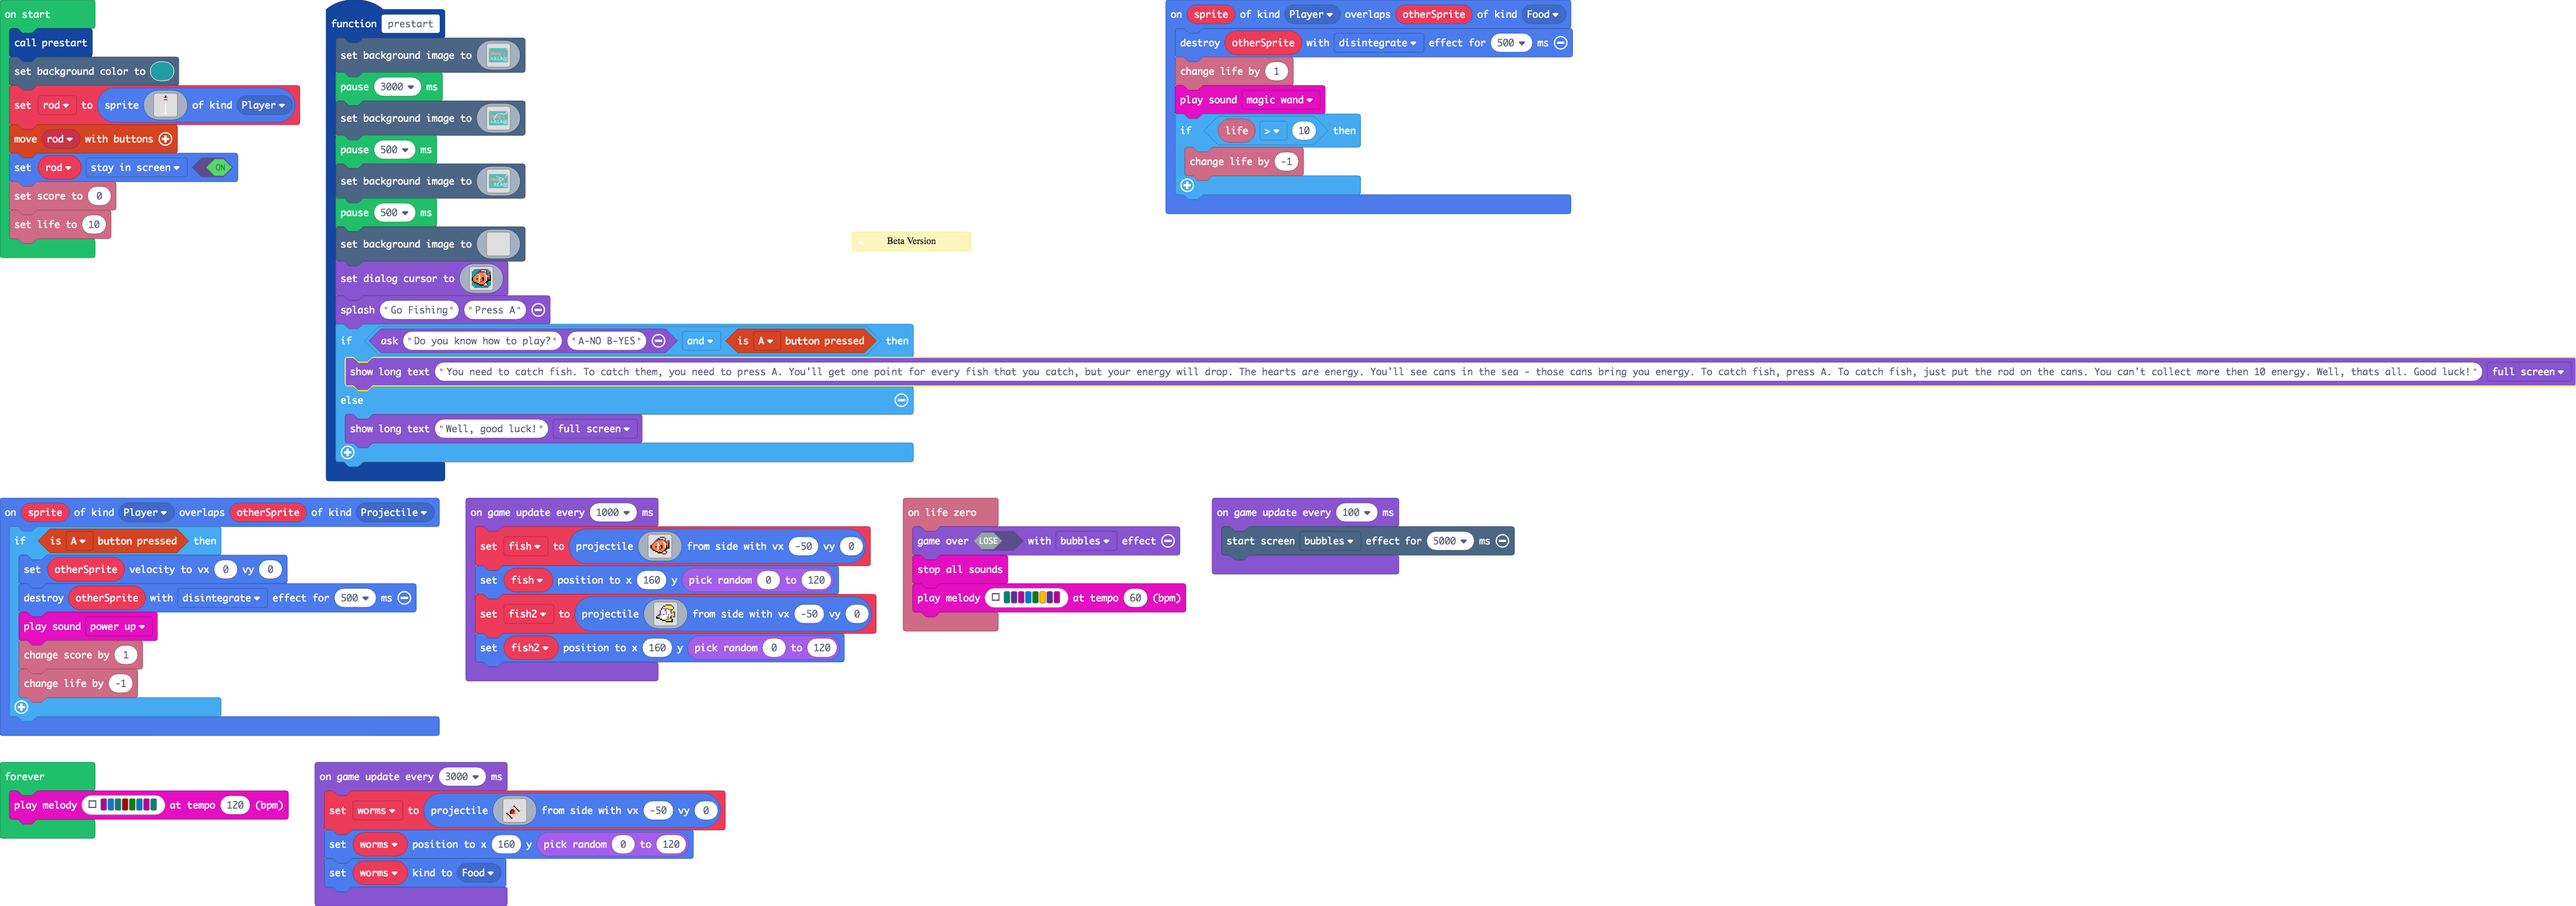
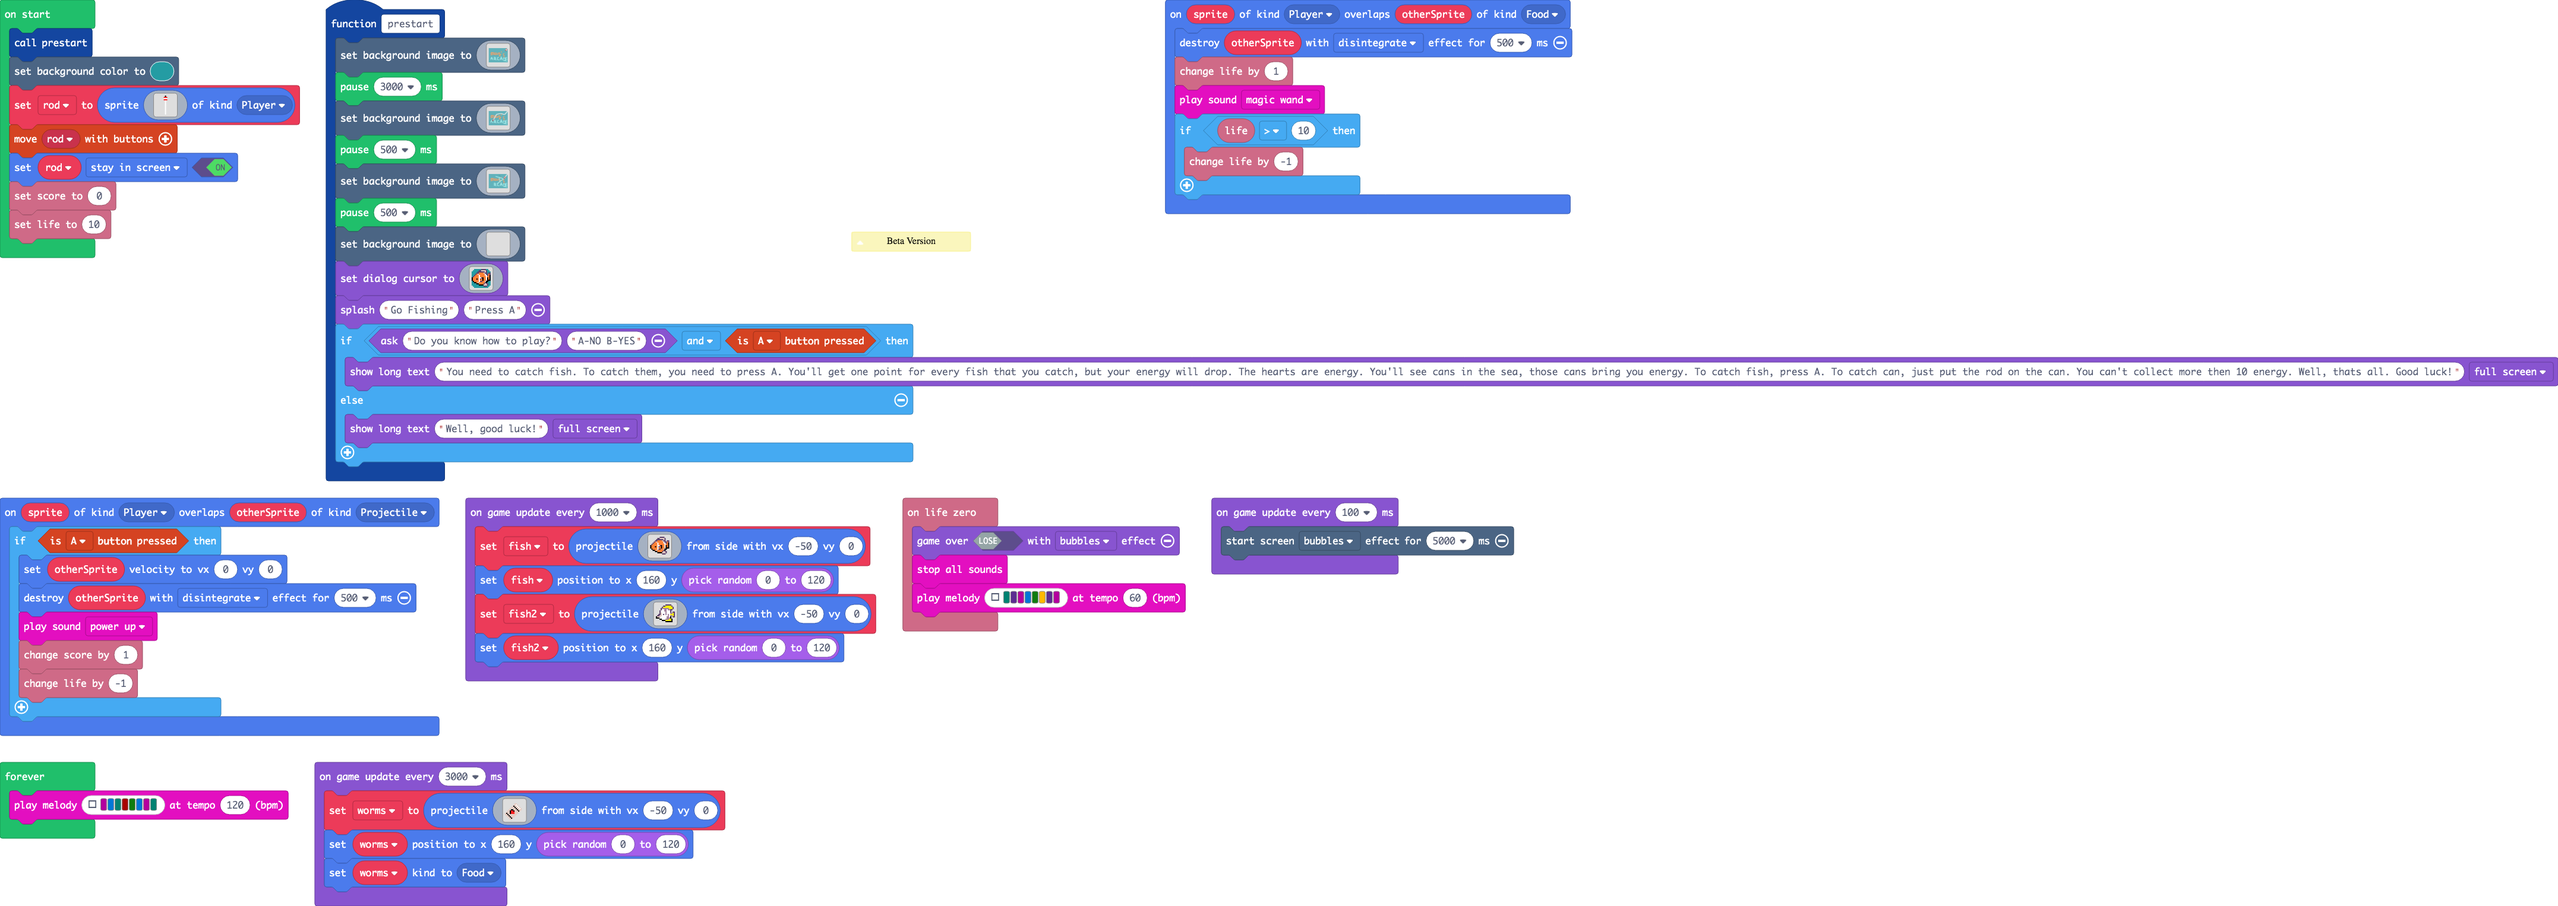
Update main.blocks, main.ts

diff --git a/main.ts b/main.ts
@@ -513,7 +513,7 @@ f 4 4 4 4 4 1 4 4 f 4 4 d f f f
 `)
     game.splash("Go Fishing", "Press A")
     if (game.ask("Do you know how to play?", "A-NO B-YES") && controller.A.isPressed()) {
-        game.showLongText("You need to catch fish. To catch them, you need to press A. You'll get one point for every fish that you catch, but your energy will drop. The hearts are energy. You'll see cans in the sea - those cans bring you energy. To catch fish, press A. To catch fish, just put the rod on the cans. You can't collect more then 10 energy. Well, thats all. Good luck!", DialogLayout.Full)
+        game.showLongText("You need to catch fish. To catch them, you need to press A. You'll get one point for every fish that you catch, but your energy will drop. The hearts are energy. You'll see cans in the sea, those cans bring you energy. To catch fish, press A. To catch can, just put the rod on the can. You can't collect more then 10 energy. Well, thats all. Good luck!", DialogLayout.Full)
     } else {
         game.showLongText("Well, good luck!", DialogLayout.Full)
     }
